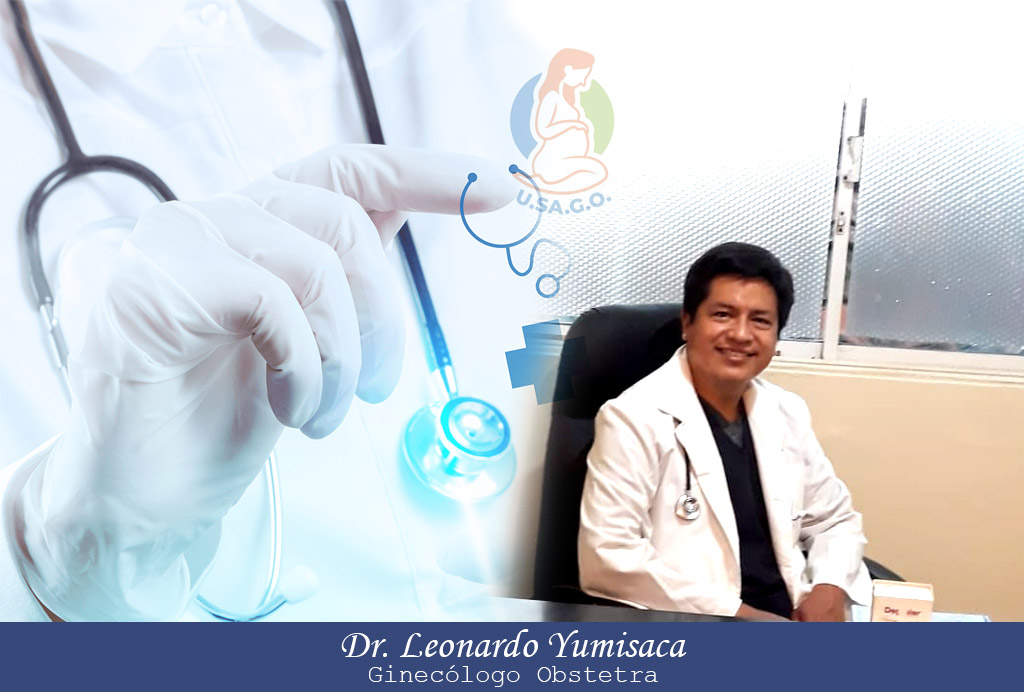
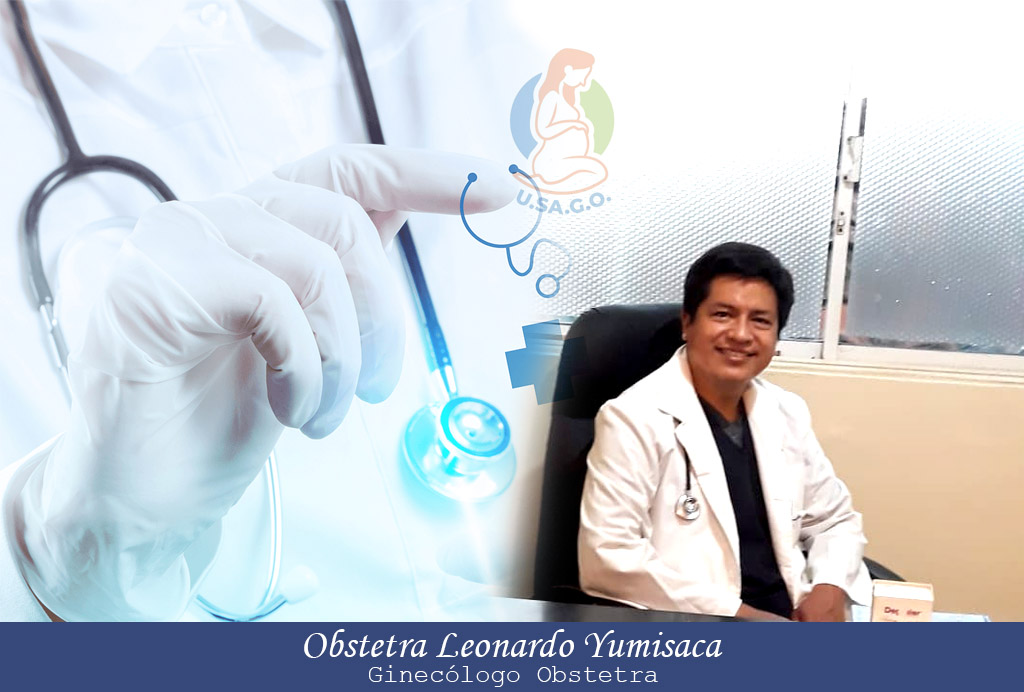
Cambiado nombre de doctores y modificado video de youtube

Changed region(s): [[0.2812, 0.9104, 0.7188, 0.9711]]

diff --git a/index.html b/index.html
@@ -168,7 +168,7 @@
 
                 <div class="row">
                     <div class="col-xl-5 col-lg-6 video-box d-flex justify-content-center align-items-stretch">
-                        <a href="https://www.youtube.com/embed/8LHLmWCiAdQ" class="venobox play-btn mb-4" data-vbtype="video" data-autoplay="true"></a>
+                        <a href="https://www.youtube.com/embed/ioTrPglxfgo" class="venobox play-btn mb-4" data-vbtype="video" data-autoplay="true"></a>
                     </div>
 
                     <div class="col-xl-7 col-lg-6 icon-boxes d-flex flex-column align-items-stretch justify-content-center py-5 px-lg-5">
@@ -445,7 +445,7 @@
                         <div class="member d-flex align-items-start">
                             <div class="pic"><img src="assets/img/doctors/doctors-3.jpg" class="img-fluid" alt=""></div>
                             <div class="member-info">
-                                <h4>Joffre Antonio Arequipa </h4>
+                                <h4> Ivan Cárdenas</h4>
                                 <span>Diagnostico Por Imágenes</span>
                                 <p>Doppler Vascular Periférico Saumb Bs As. </p>
                                 <div class="social">
